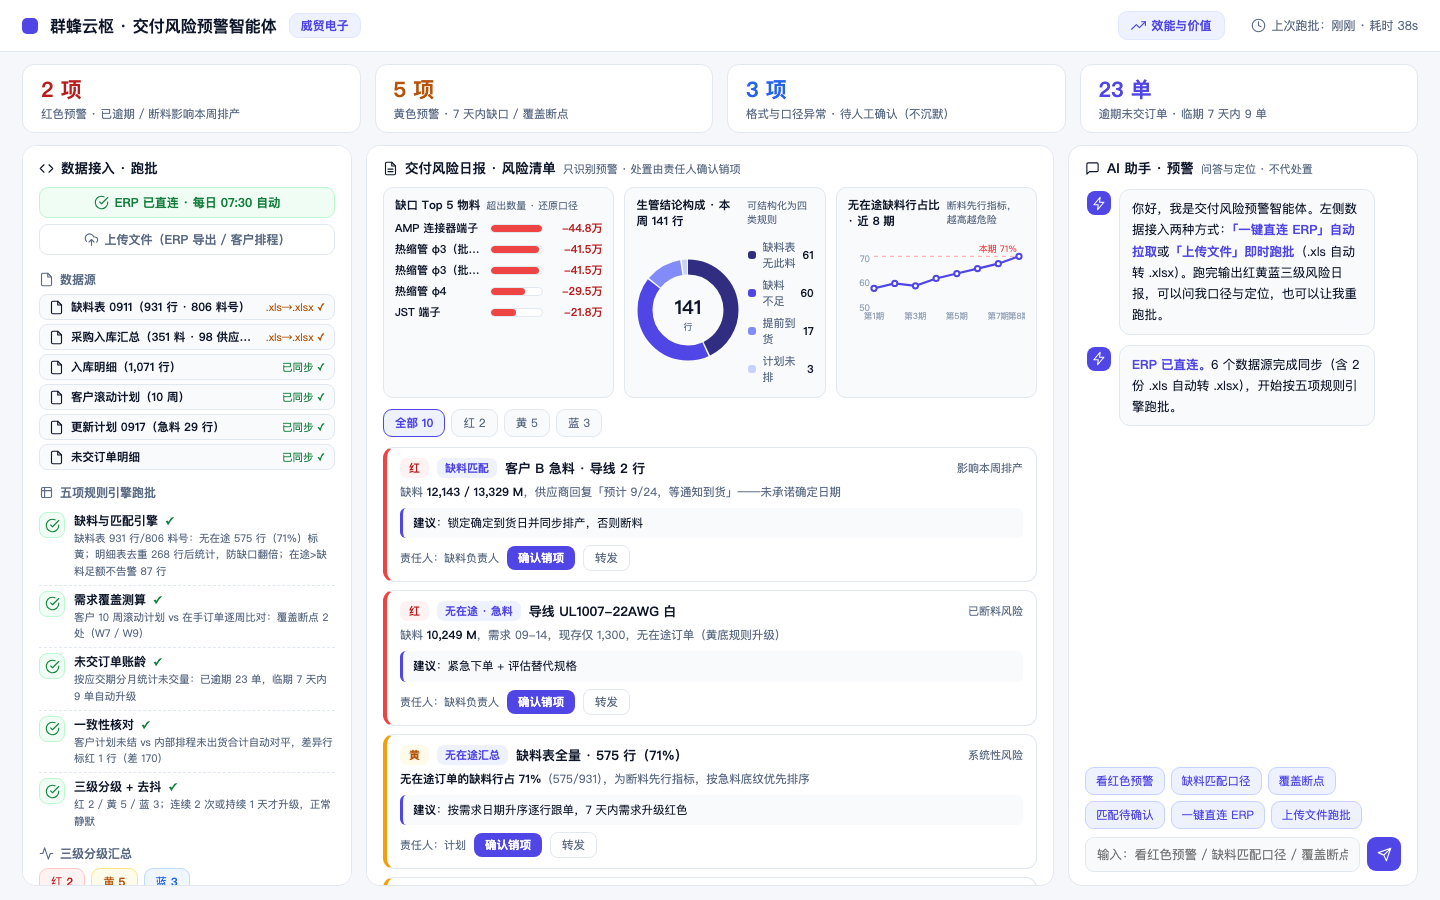
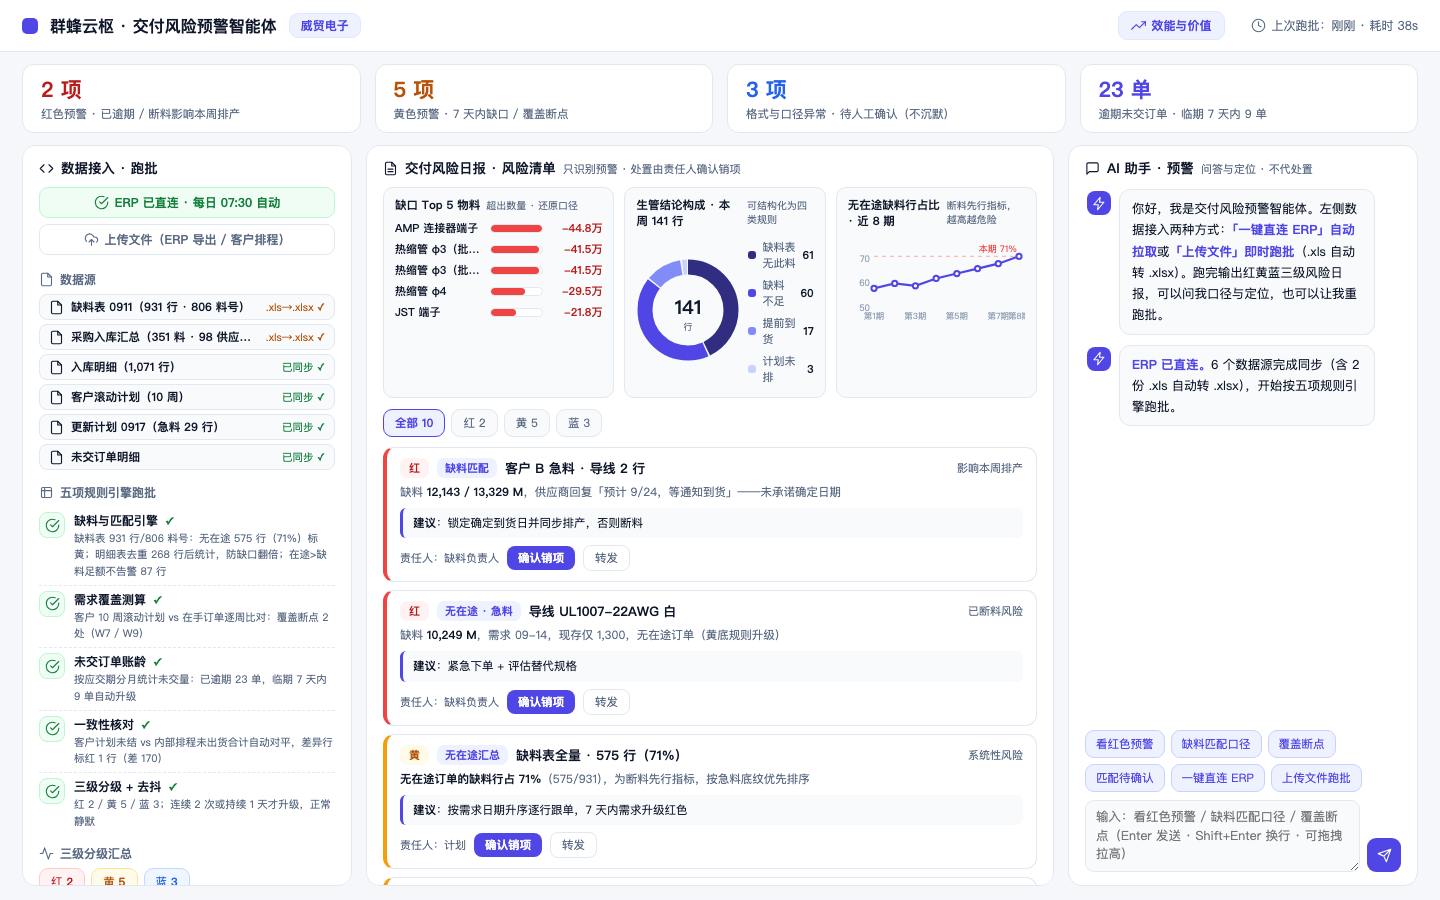
style(demos): AI 对话输入框改 3 行 textarea，支持拖拽拉高（Enter 发送/Shift+Enter 换行），场景二/三统一

Changed region(s): [[0.75, 0.8089, 0.9375, 0.9644]]

diff --git a/demos/scenario-3-delivery.html b/demos/scenario-3-delivery.html
@@ -132,9 +132,9 @@ body{background:var(--bg);color:var(--tx);height:100vh;display:flex;flex-directi
 .chipcol{display:flex;flex-wrap:wrap;gap:6px;margin-bottom:8px}
 .qchip{font-size:11.5px;text-align:left;border:1px solid #C7D2FE;background:#EEF2FF;color:var(--ac);border-radius:9px;padding:5px 10px;cursor:pointer;width:auto}
 .qchip:hover{background:#E0E7FF}
-.inrow{display:flex;gap:7px}
-.inrow input{flex:1;border:1px solid var(--bd);border-radius:9px;padding:8px 11px;font-size:12.5px;outline:none;color:var(--tx);background:var(--pan2)}
-.inrow input:focus{border-color:var(--ac);background:#fff}
+.inrow{display:flex;gap:7px;align-items:flex-end}
+.inrow textarea{flex:1;border:1px solid var(--bd);border-radius:9px;padding:7px 10px;font-size:12.5px;outline:none;color:var(--tx);background:var(--pan2);resize:vertical;min-height:60px;max-height:220px;line-height:1.5;font-family:inherit}
+.inrow textarea:focus{border-color:var(--ac);background:#fff}
 .inrow .send{width:34px;height:34px;border-radius:9px;background:var(--ac);color:#fff;display:flex;align-items:center;justify-content:center;cursor:pointer;flex:none}
 .toast{position:fixed;right:24px;bottom:24px;background:var(--tx);color:#fff;font-size:13px;font-weight:600;border-radius:10px;padding:10px 18px;display:none;z-index:99;box-shadow:0 8px 24px rgba(15,23,42,.25)}
 </style></head><body>
@@ -189,7 +189,7 @@ body{background:var(--bg);color:var(--tx);height:100vh;display:flex;flex-directi
 <h3><svg class="ic" viewBox="0 0 24 24"><path d="M21 15a2 2 0 0 1-2 2H7l-4 4V5a2 2 0 0 1 2-2h14a2 2 0 0 1 2 2z"/></svg>AI 助手 · 预警<em>问答与定位 · 不代处置</em></h3>
 <div class="aiwrap"><div class="msgs" id="msgs"></div>
 <div class="chipcol" id="qchips"></div>
-<div class="inrow"><input id="aiIn" placeholder="输入：看红色预警 / 缺料匹配口径 / 覆盖断点" onkeydown="if(event.key==='Enter')aiSend()"><span class="send" onclick="aiSend()"><svg class="ic" viewBox="0 0 24 24"><path d="M22 2L11 13M22 2l-7 20-4-9-9-4 20-7z"/></svg></span></div>
+<div class="inrow"><textarea id="aiIn" rows="3" placeholder="输入：看红色预警 / 缺料匹配口径 / 覆盖断点（Enter 发送 · Shift+Enter 换行 · 可拖拽拉高）" onkeydown="if(event.key==='Enter'&&!event.shiftKey){event.preventDefault();aiSend()}"></textarea><span class="send" onclick="aiSend()"><svg class="ic" viewBox="0 0 24 24"><path d="M22 2L11 13M22 2l-7 20-4-9-9-4 20-7z"/></svg></span></div>
 </div></div>
 </div>
 <div class="toast" id="toast"></div>

diff --git a/demos/scenario-2-qc.html b/demos/scenario-2-qc.html
@@ -178,9 +178,9 @@ table.ldb{width:100%;border-collapse:collapse;font-size:11px}
 .chipcol{display:flex;flex-wrap:wrap;gap:6px;margin-bottom:8px}
 .qchip{font-size:11.5px;text-align:left;border:1px solid #C7D2FE;background:#EEF2FF;color:var(--ac);border-radius:9px;padding:5px 10px;cursor:pointer;width:auto}
 .qchip:hover{background:#E0E7FF}
-.inrow{display:flex;gap:7px}
-.inrow input{flex:1;border:1px solid var(--bd);border-radius:9px;padding:8px 11px;font-size:12.5px;outline:none;color:var(--tx);background:var(--pan2)}
-.inrow input:focus{border-color:var(--ac);background:#fff}
+.inrow{display:flex;gap:7px;align-items:flex-end}
+.inrow textarea{flex:1;border:1px solid var(--bd);border-radius:9px;padding:7px 10px;font-size:12.5px;outline:none;color:var(--tx);background:var(--pan2);resize:vertical;min-height:60px;max-height:220px;line-height:1.5;font-family:inherit}
+.inrow textarea:focus{border-color:var(--ac);background:#fff}
 .inrow .send{width:34px;height:34px;border-radius:9px;background:var(--ac);color:#fff;display:flex;align-items:center;justify-content:center;cursor:pointer;flex:none}
 .inrow .send:hover{background:#4338CA}
 .toast{position:fixed;right:24px;bottom:24px;background:var(--tx);color:#fff;font-size:13px;font-weight:600;border-radius:10px;padding:10px 18px;display:none;z-index:99;box-shadow:0 8px 24px rgba(15,23,42,.25)}
@@ -242,7 +242,7 @@ svg text{font-family:inherit}
 <h3><svg class="ic" viewBox="0 0 24 24"><path d="M21 15a2 2 0 0 1-2 2H7l-4 4V5a2 2 0 0 1 2-2h14a2 2 0 0 1 2 2z"/></svg>AI 助手 · 质检<em>对话触发 · 可执行可修改</em></h3>
 <div class="aiwrap"><div class="msgs" id="msgs"></div>
 <div class="chipcol" id="qchips"></div>
-<div class="inrow"><input id="aiIn" placeholder="输入指令，如：执行分析 / 临界项确认 / 查台账" onkeydown="if(event.key==='Enter')aiSend()"><span class="send" onclick="aiSend()"><svg class="ic" viewBox="0 0 24 24"><path d="M22 2L11 13M22 2l-7 20-4-9-9-4 20-7z"/></svg></span></div>
+<div class="inrow"><textarea id="aiIn" rows="3" placeholder="输入指令，如：执行分析 / 临界项确认 / 查台账（Enter 发送 · Shift+Enter 换行 · 可拖拽拉高）" onkeydown="if(event.key==='Enter'&&!event.shiftKey){event.preventDefault();aiSend()}"></textarea><span class="send" onclick="aiSend()"><svg class="ic" viewBox="0 0 24 24"><path d="M22 2L11 13M22 2l-7 20-4-9-9-4 20-7z"/></svg></span></div>
 </div></div>
 </div>
 <div class="toast" id="toast"></div>
